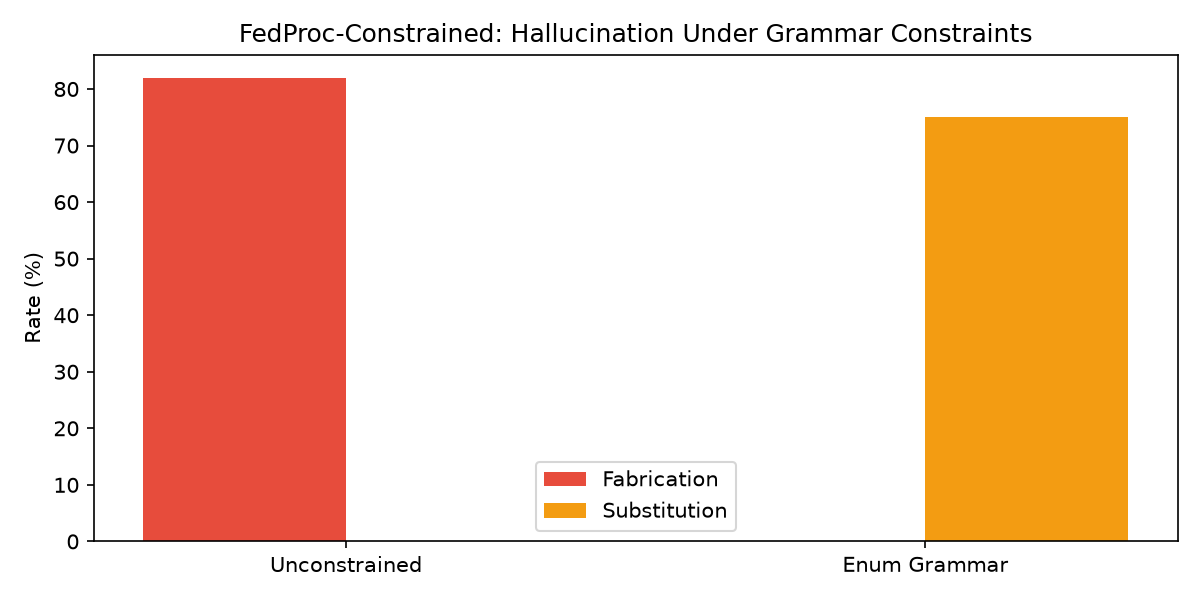
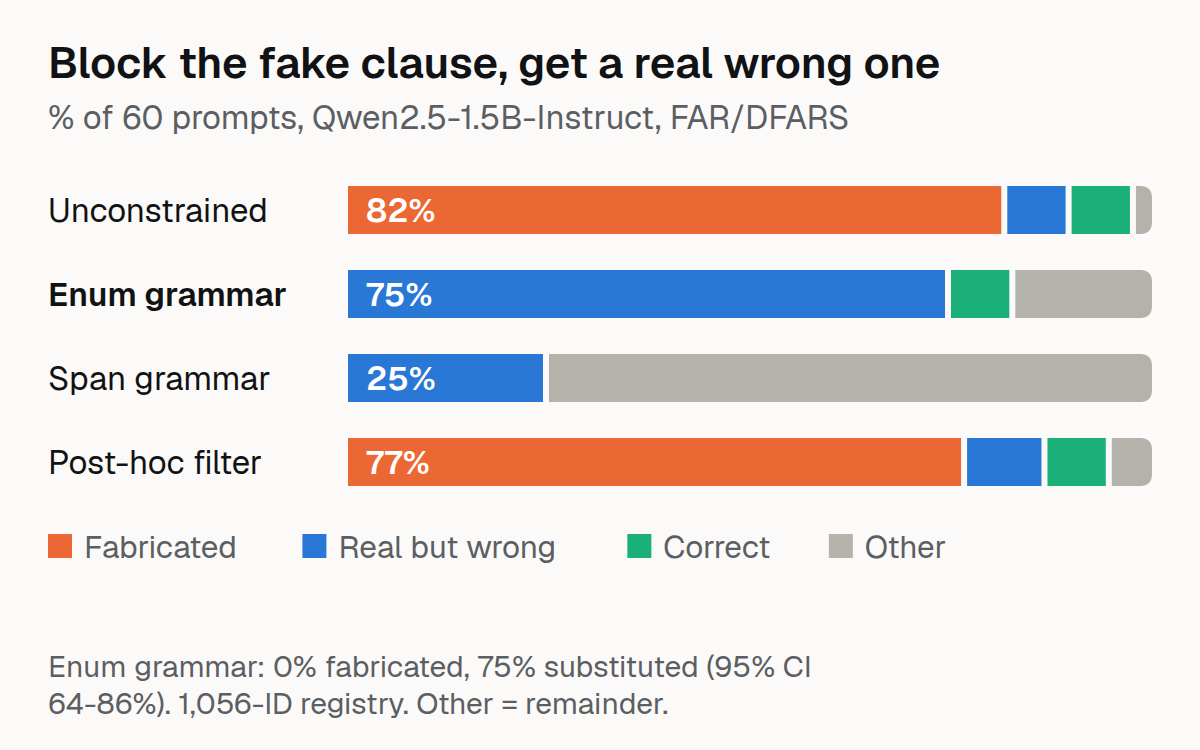
Correct registry size (1,056 canonical IDs from 1,128 raw entries), hero image
The README cited 1,032 clauses (the FedProc-Bench count); this repo's code
compiles 1,056 canonical IDs.

diff --git a/devto_article.md b/devto_article.md
@@ -1,4 +1,4 @@
-![fedproc-constrained results](https://raw.githubusercontent.com/raihan-js/fedproc-constrained/main/images/fedproc.png)
+![fedproc-constrained results](https://raw.githubusercontent.com/raihan-js/fedproc-constrained/HEAD/images/fedproc.png)
 
 # What Happens When Decoding Makes Hallucination Impossible? Substitution.
 
@@ -8,7 +8,7 @@
 
 ## The Setup
 
-FlipGate (my last project) found that quantized LLMs fabricate FAR/DFARS clause numbers — AWQ invented 34 new ones (p=0.001). The obvious fix: compile the 1,056-clause registry into a decoding grammar so the model *cannot* emit a nonexistent number.
+FlipGate (my last project) found that quantized LLMs fabricate FAR/DFARS clause numbers — AWQ invented 34 new ones (p=0.001). The obvious fix: compile the registry (1,128 raw entries, 1,056 distinct canonical clause IDs) into a decoding grammar so the model *cannot* emit a nonexistent number.
 
 That guarantee is true by construction — which makes it worthless as a finding. The real question is what the blocked fake turns into. Three hypotheses: the model abstains, it finds the right clause, or it substitutes a real-but-wrong one.
 

diff --git a/README.md b/README.md
@@ -1,8 +1,10 @@
 # FedProc-Constrained
 
+![FedProc-Constrained results](images/fedproc.png)
+
 What does a clause hallucination turn into when decoding makes it impossible?
 
-Compiles the 1,032-clause FAR/DFARS registry into a decoding grammar so a small LLM cannot output a nonexistent clause number — then measures the real finding: how often the blocked fake turns into a real-but-wrong clause (**substitution rate**), and what the grammar costs in speed.
+Compiles the FAR/DFARS registry (1,128 raw entries, 1,056 distinct canonical clause IDs) into a decoding grammar so a small LLM cannot output a nonexistent clause number — then measures the real finding: how often the blocked fake turns into a real-but-wrong clause (**substitution rate**), and what the grammar costs in speed.
 
 ## Results (60 prompts, Qwen2.5-1.5B-Instruct)
 

diff --git a/AGENTS.md b/AGENTS.md
@@ -9,7 +9,7 @@ Prep context: `../../noeon-prep/`.
 
 ## Active project: FedProc-Constrained
 
-Compile the 1,032-clause FAR/DFARS registry into a decoding grammar so a small LLM cannot output a nonexistent clause number — then measure the real finding: how often the blocked fake turns into a real-but-wrong clause (substitution rate), and what the grammar costs in speed.
+Compile the FAR/DFARS registry (1,056 canonical IDs) into a decoding grammar so a small LLM cannot output a nonexistent clause number — then measure the real finding: how often the blocked fake turns into a real-but-wrong clause (substitution rate), and what the grammar costs in speed.
 
 **Publishes:** substitution rate (blocked-fake → real-but-wrong) + latency overhead of constrained vs unconstrained decoding on clause-citation prompts.
 
